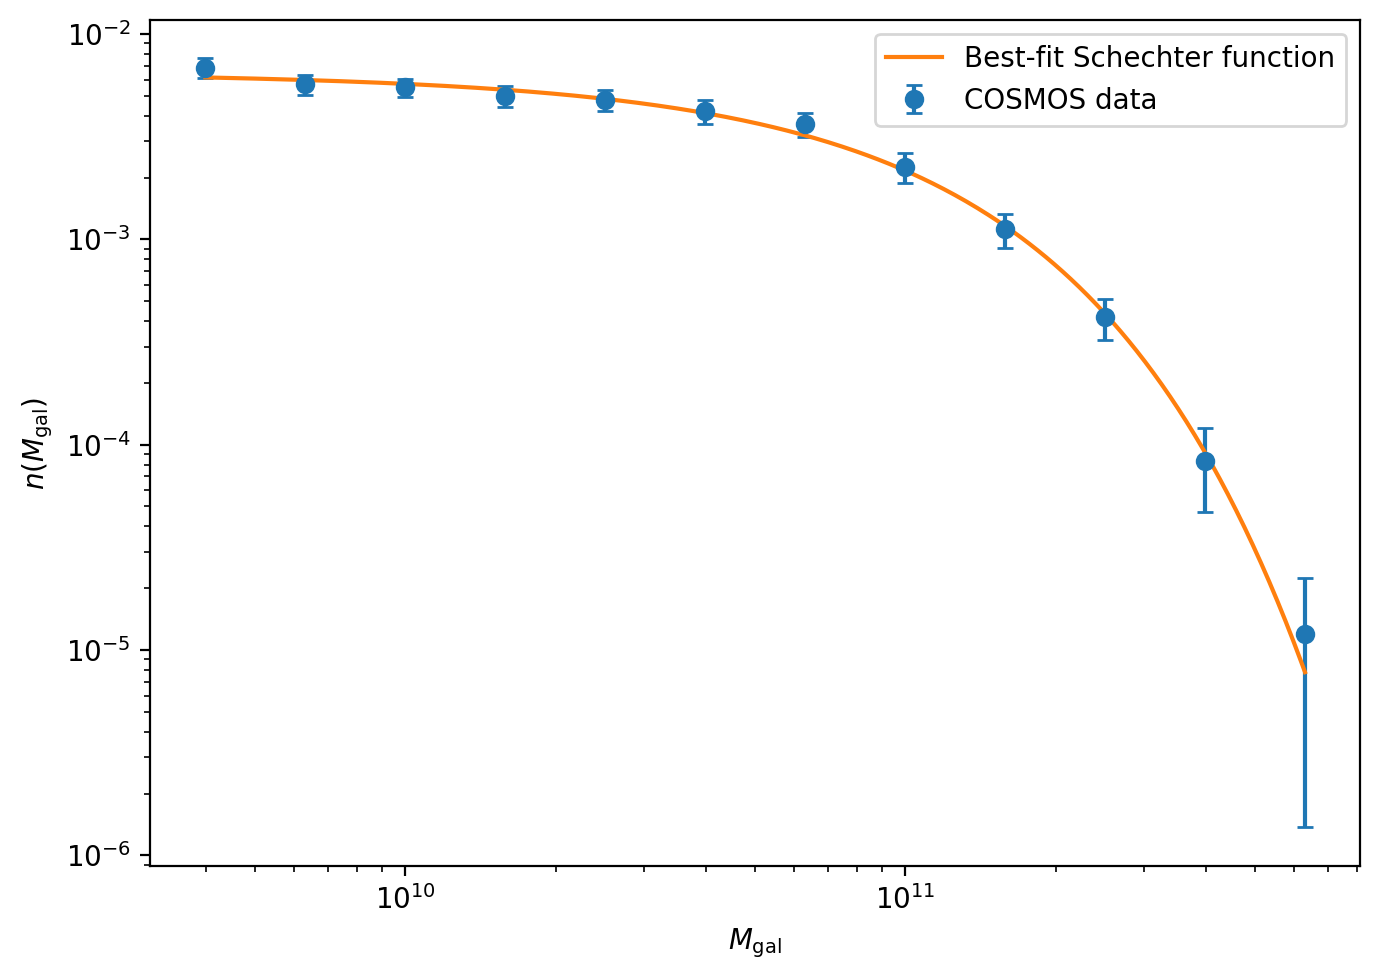
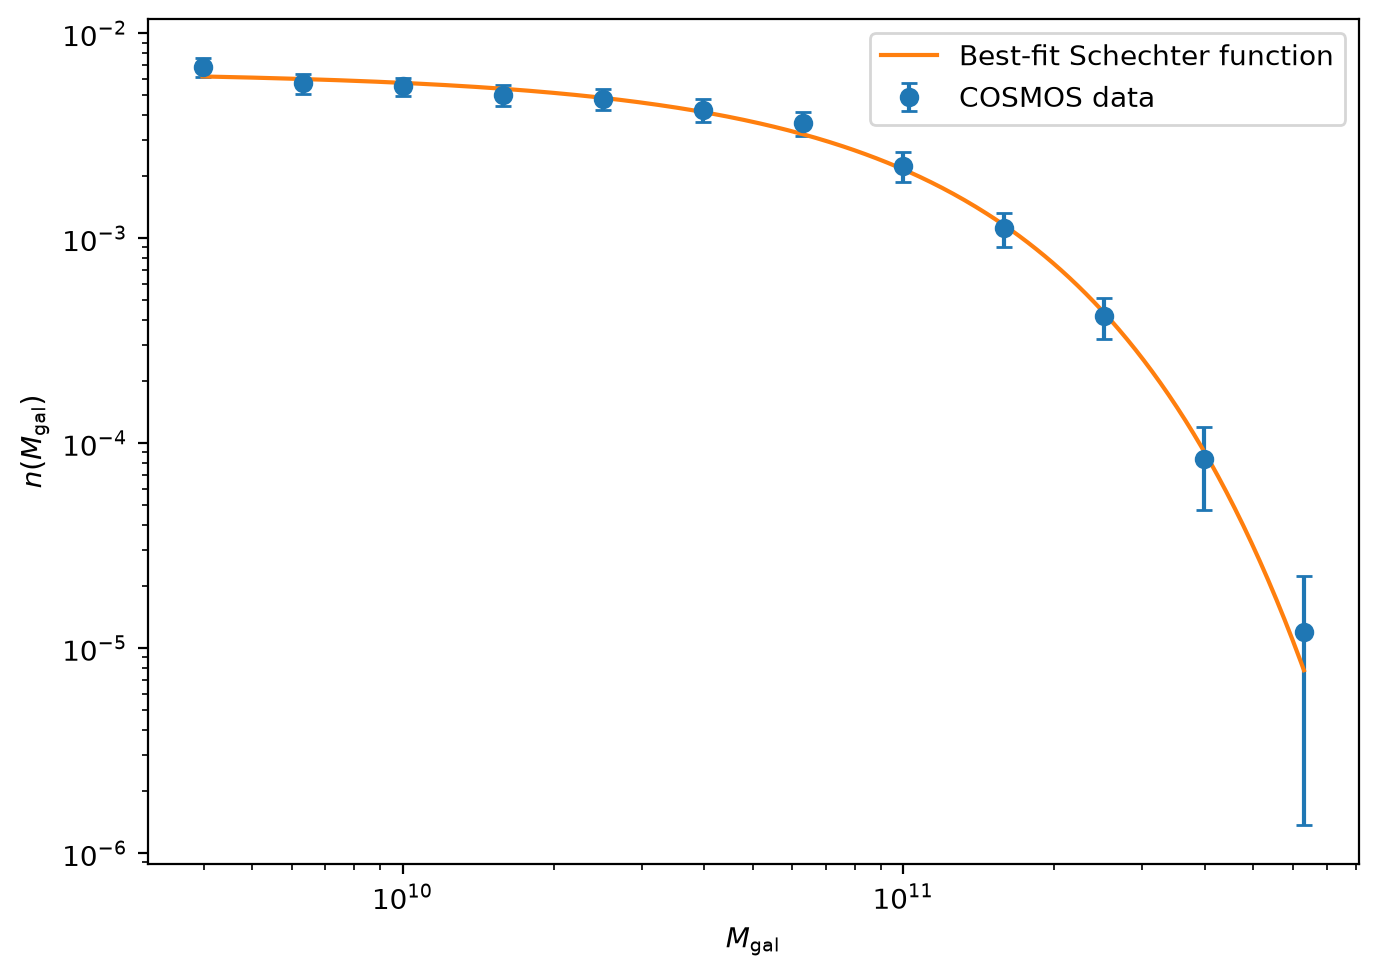
changes
changes

diff --git a/homework2.py b/homework2.py
@@ -1,6 +1,12 @@
 import math
+import csv
+from pathlib import Path
 import numpy as np
+import matplotlib
+matplotlib.use("Agg")
 import matplotlib.pyplot as plt
+
+BASE_DIR = Path(__file__).resolve().parent
 
 # ============================================================
 # Question 1: Exercise 6.11 - Overrelaxation
@@ -31,7 +37,13 @@ def solve_relax(c=2.0, x=1.0, omega=0.0, tol=1e-6):
     raise RuntimeError("No convergence")
 
 
+reference_root = solve_relax(omega=0.685, tol=1e-13)[0]
+reference_slope = fp_relax(reference_root)
+optimal_omega = reference_slope / (1.0 - reference_slope)
+
 print("QUESTION 1")
+print("reference root =", reference_root)
+print("locally optimal omega =", optimal_omega)
 for w in [0.0, 0.5, 0.68, 0.685]:
     x, n, e = solve_relax(omega=w)
     print(w, x, n, e)
@@ -181,7 +193,7 @@ plt.ylabel("$y$")
 plt.title(r"Numerical Gradient Descent on $f(x,y)=(x-2)^2+(y-2)^2$")
 plt.legend()
 plt.tight_layout()
-plt.savefig("gradient_descent_test.png", dpi=200, bbox_inches="tight")
+plt.savefig(BASE_DIR / "gradient_descent_test.png", dpi=200, bbox_inches="tight")
 plt.close()
 
 
@@ -190,7 +202,9 @@ plt.close()
 # ============================================================
 # The supplied assignment data file must be in the same directory.
 
-data = np.loadtxt("smf_cosmos.dat")
+# Columns: log10(galaxy mass), measured mass function, uncertainty.
+# The mass ratio is 10**(logM - log_M_star).
+data = np.loadtxt(BASE_DIR / "smf_cosmos.dat")
 logM, nobs, sigma = data.T
 
 
@@ -252,18 +266,18 @@ print("chi2 =", chi2(best))
 
 # Plot chi^2 versus gradient-descent step for all three starts.
 plt.figure(figsize=(7, 5))
-for i, history in enumerate(histories, 1):
+for start, history in zip(starts, histories):
     plt.semilogy(
         np.arange(len(history)),
         history,
-        label=f"start {i}",
+        label="(" + ", ".join(f"{value:.1f}" for value in start) + ")",
     )
 
 plt.xlabel("Gradient-descent step $i$")
 plt.ylabel(r"$\chi^2$")
-plt.legend()
+plt.legend(title=r"Start $(\log_{10}\phi^*, \log_{10}M^*, \alpha)$", fontsize=9)
 plt.tight_layout()
-plt.savefig("chi2_vs_step.png", dpi=200, bbox_inches="tight")
+plt.savefig(BASE_DIR / "chi2_vs_step.png", dpi=200, bbox_inches="tight")
 plt.close()
 
 
@@ -289,5 +303,51 @@ plt.xlabel(r"$M_{\rm gal}$")
 plt.ylabel(r"$n(M_{\rm gal})$")
 plt.legend()
 plt.tight_layout()
-plt.savefig("schechter_fit.png", dpi=200, bbox_inches="tight")
+plt.savefig(BASE_DIR / "schechter_fit.png", dpi=200, bbox_inches="tight")
 plt.close()
+
+
+# Export the per-start results; the LaTeX writeup reads this generated table.
+rows = []
+for start, solution, history in zip(starts, solutions, histories):
+    rows.append([
+        *start, *solution, 10.0 ** solution[0], 10.0 ** solution[1],
+        history[-1], len(history) - 1,
+    ])
+
+with (BASE_DIR / "schechter_results.csv").open("w", newline="") as handle:
+    csv_writer = csv.writer(handle)
+    csv_writer.writerow([
+        "start_log10_phi", "start_log10_M", "start_alpha",
+        "log10_phi", "log10_M", "alpha", "phi_star", "M_star",
+        "chi_squared", "accepted_steps",
+    ])
+    csv_writer.writerows(rows)
+
+table_lines = [
+    r"\begin{table}[H]",
+    r"\centering",
+    r"\small",
+    r"\begin{tabular}{lcccc}",
+    r"\toprule",
+    r"Starting point & $\phi^*$ & $M^*$ & $\alpha$ & $\chi^2$\\",
+    r"\midrule",
+]
+for start, solution, history in zip(starts, solutions, histories):
+    label = "(" + ",".join(f"{value:.1f}" for value in start) + ")"
+    phi = 10.0 ** solution[0]
+    mass = 10.0 ** solution[1]
+    table_lines.append(
+        f"${label}$ & ${phi * 1e3:.6f}\\times10^{{-3}}$ & "
+        f"${mass / 1e10:.6f}\\times10^{{10}}$ & "
+        f"${solution[2]:.6f}$ & ${history[-1]:.6f}$" + r"\\"
+    )
+table_lines.extend([
+    r"\bottomrule",
+    r"\end{tabular}",
+    r"\caption{Schechter-fit parameters and objective values from each initial guess.}",
+    r"\label{tab:starts}",
+    r"\end{table}",
+])
+(BASE_DIR / "schechter_results.tex").write_text("\n".join(table_lines) + "\n")
+print("Saved all figures, schechter_results.csv, and schechter_results.tex in", BASE_DIR)

diff --git a/schechter_results.tex b/schechter_results.tex
@@ -1,0 +1,15 @@
+\begin{table}[H]
+\centering
+\small
+\begin{tabular}{lcccc}
+\toprule
+Starting point & $\phi^*$ & $M^*$ & $\alpha$ & $\chi^2$\\
+\midrule
+$(-2.3,11.0,-1.2)$ & $2.702605\times10^{-3}$ & $9.467321\times10^{10}$ & $-1.009391$ & $2.908056$\\
+$(-2.0,10.8,-1.0)$ & $2.702615\times10^{-3}$ & $9.467312\times10^{10}$ & $-1.009391$ & $2.908056$\\
+$(-3.0,11.2,-1.5)$ & $2.702615\times10^{-3}$ & $9.467312\times10^{10}$ & $-1.009391$ & $2.908056$\\
+\bottomrule
+\end{tabular}
+\caption{Schechter-fit parameters and objective values from each initial guess.}
+\label{tab:starts}
+\end{table}
